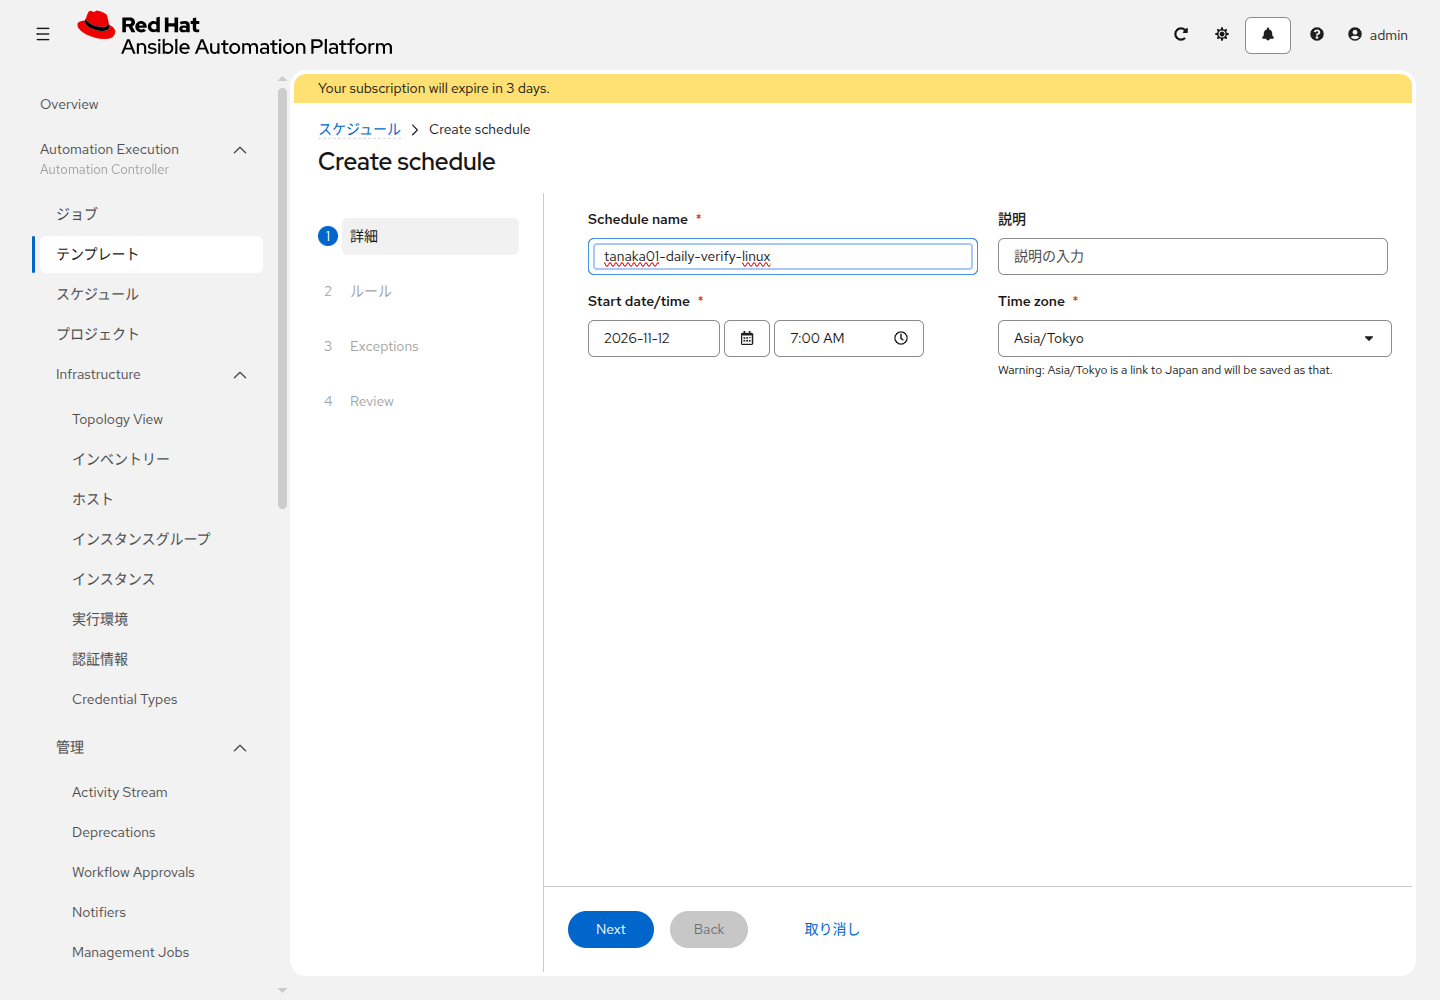
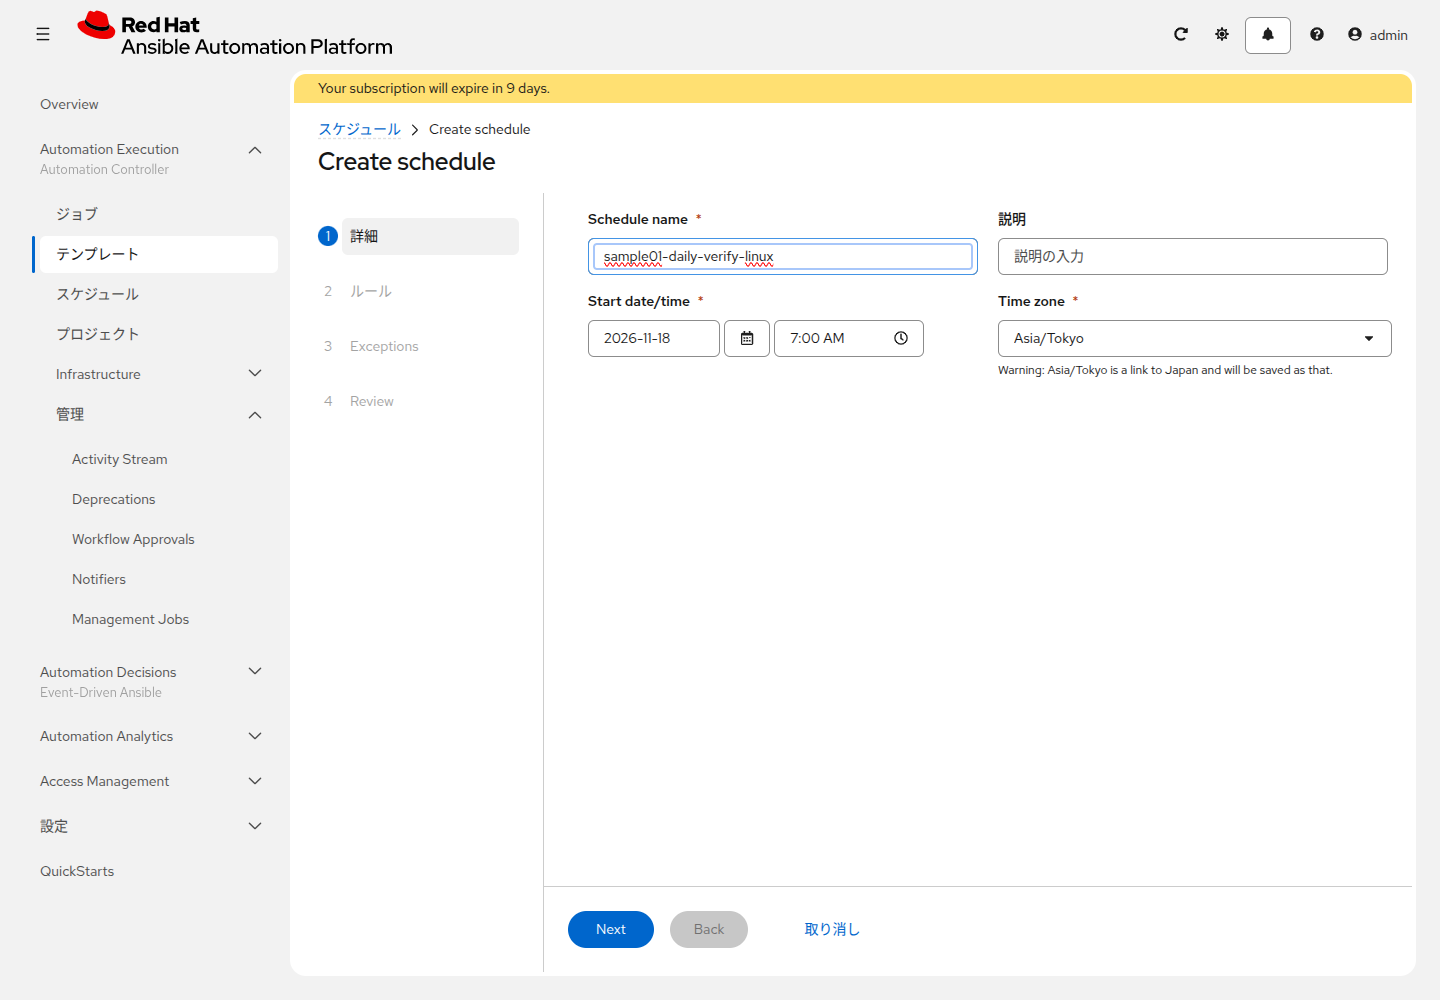
古いスクショを撮り直し、名前の接頭辞の例を sample01 にする。
- 手順が変わって画面と合わなくなった写真と、例の接頭辞 tanaka01 が写っていた写真を、AAP 2.7 / GitLab 19 で撮り直した
- 本文の接頭辞の例 tanaka01 を sample01 にそろえた
- 演習9の「写真には name_prefix の行が無い」という注記をやめ、代替テキストを写真に合わせた
- 応用演習1の team-access.png の代替テキストを、割り当て後の一覧という写真の内容に合わせた
- 演習7で、起動プロンプトが無いときは起動画面にジョブタイプの欄が出ないことを正しく書いた
- どこからも参照されていない job-template-details.png と survey.png を消した

Closes #91

diff --git a/advanced/ex3.md b/advanced/ex3.md
@@ -179,7 +179,7 @@ podman images | grep '<name_prefix>-custom-ee'
 
 ![実行環境の作成。イメージは localhost/ で始まる名前、Pull は Never pull container before running](../images/aap/ee-create-local.png)
 
-写真の `tanaka01` は例です。組織と Registry credential は空欄のまま **実行環境の作成** を押します。
+写真の `sample01` は例です。組織と Registry credential は空欄のまま **実行環境の作成** を押します。
 
 `localhost/` で始まるイメージ名は、レジストリではなく、そのサーバの `podman` にあるイメージを指します。Pull を `Never pull container before running` にすると、AAP はレジストリへ取りに行かず、手元のイメージをそのまま使います。
 
@@ -204,17 +204,17 @@ Web IDE で `use_ini_file.yml` をプロジェクトの直下に作り、[sample
 | Extra variables | 下の1行 |
 
 ```yaml
-name_prefix: tanaka01
+name_prefix: sample01
 ```
 
-`tanaka01` は、自分の接頭辞にします。この Playbook は `hosts: localhost` で、実行環境の中だけで動きます。サーバへログインしないので、認証情報は付けません。**テンプレートの起動** を押します。Survey も制限も出ません。
+`sample01` は、自分の接頭辞にします。この Playbook は `hosts: localhost` で、実行環境の中だけで動きます。サーバへログインしないので、認証情報は付けません。**テンプレートの起動** を押します。Survey も制限も出ません。
 
 1回目は失敗します。出力に `community.general.ini_file` があり、`couldn't resolve module` または `was not found` と出ていれば、既定の実行環境にこのコレクションが無いことを確認できています。
 
-失敗を確認したら、このテンプレートの **テンプレートの編集** で、実行環境に `<name_prefix>-custom-ee` を選んで保存します。もう一度起動します。成功すると、`Show the value written with community.general` に次の行が出ます。`tanaka01` の位置には、自分の接頭辞が出ます。
+失敗を確認したら、このテンプレートの **テンプレートの編集** で、実行環境に `<name_prefix>-custom-ee` を選んで保存します。もう一度起動します。成功すると、`Show the value written with community.general` に次の行が出ます。`sample01` の位置には、自分の接頭辞が出ます。
 
 ```
-tanaka01-use-ini.ini の source は custom ee です
+sample01-use-ini.ini の source は custom ee です
 ```
 
 ジョブ詳細の実行環境が `<name_prefix>-custom-ee` になっていることも確認します。ジョブが `image not known` で失敗したときは、Section 3 の `CONTAINERS_STORAGE_CONF` を設定して、ビルドからやり直します。

diff --git a/basic-intro/ex4.md b/basic-intro/ex4.md
@@ -100,12 +100,12 @@ git push
 | Extra variables | 下の YAML |
 
 ```yaml
-resource_prefix: tanaka01
+resource_prefix: sample01
 linux_login_password: <Linuxのパスワード>
 windows_login_password: <Windowsのパスワード>
 ```
 
-`tanaka01` は例です。演習1で決めた接頭辞と同じ文字列にします。`<Linuxのパスワード>` と `<Windowsのパスワード>` は、自分で決めた値に置き換えます。`<` と `>` は残しません。パスワードの条件は次のとおりです。条件に合わないと、最初のタスク `Required variables are set` で止まります。
+`sample01` は例です。演習1で決めた接頭辞と同じ文字列にします。`<Linuxのパスワード>` と `<Windowsのパスワード>` は、自分で決めた値に置き換えます。`<` と `>` は残しません。パスワードの条件は次のとおりです。条件に合わないと、最初のタスク `Required variables are set` で止まります。
 
 * 英数字だけで、8文字以上32文字以内
 * 英大文字、英小文字、数字を、それぞれ1文字以上含む（Windows は、この3種類が無いパスワードを設定できません）
@@ -117,17 +117,17 @@ windows_login_password: <Windowsのパスワード>
 **テンプレートの起動** をクリックします。成功すると、最後のタスクに次のような行が出ます。
 
 ```
-resource_prefix: tanaka01
-Linuxの名前: tanaka01-linux
+resource_prefix: sample01
+Linuxの名前: sample01-linux
 Linuxの接続先: 203.0.113.10
 Linuxのユーザー: ansible
-Windowsの名前: tanaka01-windows
+Windowsの名前: sample01-windows
 Windowsの接続先: 203.0.113.11
 Windowsのユーザー: Administrator
 パスワードは、このジョブの Extra variables に入れた値です。
 ```
 
-`tanaka01`、`203.0.113.10`、`203.0.113.11` は例です。ログに出た2つのアドレスと、ユーザー名を控えます。パスワードは、Extra variables に入れた2つの値です。ジョブの詳細を開くと、その値が Extra variables に残っています。
+`sample01`、`203.0.113.10`、`203.0.113.11` は例です。ログに出た2つのアドレスと、ユーザー名を控えます。パスワードは、Extra variables に入れた2つの値です。ジョブの詳細を開くと、その値が Extra variables に残っています。
 
 値を控えたら、`<name_prefix>-create-aws-servers` の **テンプレートの編集** を開き、Extra variables から `linux_login_password` と `windows_login_password` の2行を消して保存します。`resource_prefix` の行は残します。テンプレートを開ける他の人に、パスワードが見えないようにするためです。もう一度このジョブを起動するときは、2行を入れ直します。
 

diff --git a/basic-controller/ex8.md b/basic-controller/ex8.md
@@ -14,16 +14,16 @@
 
 演習7で保存した `name_prefix` の行は残します。この行が無いと、ファイルを書く前に失敗します。
 
-欄の中を、次の2行にします。`tanaka01` は、演習7で保存してある自分の接頭辞のままにします。
+欄の中を、次の2行にします。`sample01` は、演習7で保存してある自分の接頭辞のままにします。
 
 ```yaml
-name_prefix: tanaka01
+name_prefix: sample01
 training_note: hello from extra vars
 ```
 
 **ジョブテンプレートの保存** を押し、起動します。出力の `Write note.txt` が `changed` になり、`Show the note written to note.txt` に `note.txt の note は hello from extra vars です` と出ます。
 
-これは `ansible-playbook write_note_linux.yml -e "name_prefix=tanaka01 training_note='hello from extra vars'"` と同じです。`name_prefix` は、ファイルの置き場所に使われます。
+これは `ansible-playbook write_note_linux.yml -e "name_prefix=sample01 training_note='hello from extra vars'"` と同じです。`name_prefix` は、ファイルの置き場所に使われます。
 
 確認が終わったら、`training_note` の行だけを消して保存します。`name_prefix` の行は残します。Section 3 では、同じ `training_note` を Survey で聞きます。
 
@@ -34,7 +34,7 @@ training_note: hello from extra vars
 もう一度 **テンプレートの編集** を開きます。Extra variables は、次の1行のままです。
 
 ```yaml
-name_prefix: tanaka01
+name_prefix: sample01
 ```
 
 **制限** の右にある **起動プロンプト** にチェックを入れます。ジョブタイプの横の起動プロンプトは外したままです。
@@ -45,7 +45,7 @@ name_prefix: tanaka01
 
 ![Prompt on Launch の Review。制限は lin1。最後のボタンは Finish。手順は Prompts と Review だけ](../images/aap/launch-finish.png)
 
-写真の `tanaka01` は例です。自分の接頭辞に読み替えます。出力の対象が `lin1` だけであることを確認します。`Show the note written to note.txt` は `note.txt の note は managed by AAP です` のままです。この演習の認証情報は `<name_prefix>-linux-ssh` だけです。
+写真の `sample01` は例です。自分の接頭辞に読み替えます。出力の対象が `lin1` だけであることを確認します。`Show the note written to note.txt` は `note.txt の note は managed by AAP です` のままです。この演習の認証情報は `<name_prefix>-linux-ssh` だけです。
 
 ## Section 3: Survey
 

diff --git a/basic-controller/ex9.md b/basic-controller/ex9.md
@@ -95,17 +95,17 @@ git push
 `<name_prefix>-write-note-linux` の編集で、認証情報に `<name_prefix>-vault-training` を追加します。`<name_prefix>-linux-ssh` も付けたままにします。**Extra variables** は、演習8で残した `name_prefix` の行を残したまま、次の行を足します。起動画面にはこの欄は出ないので、編集画面で保存します。
 
 ```yaml
-name_prefix: tanaka01
+name_prefix: sample01
 training_use_vault: true
 ```
 
-`tanaka01` は、演習7で保存してある自分の接頭辞のままにします。
+`sample01` は、演習7で保存してある自分の接頭辞のままにします。
 
-![詳細画面。認証情報は linux-ssh と vault-training、Extra variables は training_use_vault: true。実行環境に既定の名前が見えても、編集画面では空欄のままにする](../images/aap/template-launch.png)
+![詳細画面。認証情報は linux-ssh と vault-training、Extra variables は name_prefix と training_use_vault: true の2行。実行環境に既定の名前が見えても、編集画面では空欄のままにする](../images/aap/template-launch.png)
 
-![編集画面の Extra variables](../images/aap/extra-variables.png)
+![編集画面の Extra variables。name_prefix と training_use_vault の2行。制限の起動プロンプトにはチェックが入ったまま](../images/aap/extra-variables.png)
 
-写真の Extra variables は `training_use_vault` だけです。自分の画面では、その上に `name_prefix` の行もあります。制限の起動プロンプトは、演習8で入れたままにします。
+制限の起動プロンプトは、演習8で入れたままにします。
 
 起動すると、演習8と同じ **Prompt on Launch** が開きます。**制限** は空欄のまま **Next** を押します。**Survey** は `managed by AAP` のまま **Next** を押し、**Review** で **Finish** を押します。メモの文面は変えません。`Show the note written to note.txt` は `note.txt の note は managed by AAP です` のままです。成功すると、`Show the secret written to secret.txt` に `secret.txt を書きました。権限は 0600 です` と出ます。ログに出るのは、ファイルを書いたことと権限です。復号した値は出ません。
 

diff --git a/cleanup.md b/cleanup.md
@@ -31,9 +31,9 @@ Web IDE で、プロジェクト `<name_prefix>-aap-training-content` に [sampl
 | 実行環境 | 空欄 | 空欄 |
 | 認証情報 | `<name_prefix>-linux-ssh` | `<name_prefix>-windows-psrp` |
 | 制限 | `linux` | `windows` |
-| Extra variables | `name_prefix: tanaka01` | `name_prefix: tanaka01` |
+| Extra variables | `name_prefix: sample01` | `name_prefix: sample01` |
 
-`tanaka01` は自分の接頭辞にします。認証情報が OS ごとに違うので、制限で片方のグループだけを対象にします。
+`sample01` は自分の接頭辞にします。認証情報が OS ごとに違うので、制限で片方のグループだけを対象にします。
 
 両方を起動します。Linux 用は `Remove /tmp/<name_prefix>-aap-training` が `changed`、Windows 用は `Remove C:\temp\<name_prefix>-aap-training` が `changed` になれば消えています。もう一方の OS の play は、対象ホストが無いので `skipping` です。2回目に起動すると、どちらも `ok` になります。
 
@@ -73,10 +73,10 @@ ansible_connection: local
 | Extra variables | 下の1行 |
 
 ```yaml
-name_prefix: tanaka01
+name_prefix: sample01
 ```
 
-`tanaka01` は自分の接頭辞にします。起動画面には Extra variables は出ないので、編集画面で保存してから **テンプレートの起動** を押します。
+`sample01` は自分の接頭辞にします。起動画面には Extra variables は出ないので、編集画面で保存してから **テンプレートの起動** を押します。
 
 成功すると、出力の最後に2つの一覧が出ます。`Show the names that were deleted` は削除できた名前、`Show the names that remain` は見つかったのに削除できなかった名前です。作っていない名前は、どちらにも出ません。このジョブは、実行中の自分自身が使っているプロジェクト、インベントリー `<name_prefix>-aap-runner`、テンプレート `<name_prefix>-remove-lab` を消せません。この3つは「残った名前」に出ます。残った名前は Section 4 で、画面から消します。ジョブが失敗した場合も、Section 4 の検索で残っている行を消します。
 

diff --git a/basic-controller/ex10.md b/basic-controller/ex10.md
@@ -24,7 +24,7 @@
 
 時刻の欄が 24 時間表示のときは、`07:00` と入れます。Time zone には、ブラウザのタイムゾーンが最初から入っています。`Asia/Tokyo` なら、そのまま使います。`Warning: Asia/Tokyo is a link to Japan and will be saved as that.` と出ても、そのまま **Next** を押します。`UTC` など別の値が出ているときは、Time zone を開いて `Asia/Tokyo` を選びます。`UTC` のままだと、日本時間の 16:00 に動きます。名前欄の下に赤線が出ても、そのまま **Next** を押します。
 
-![Create schedule の詳細。Schedule name、Start date/time、Time zone。tanaka01 は例](../images/aap/schedule-details.png)
+![Create schedule の詳細。Schedule name、Start date/time、Time zone。sample01 は例](../images/aap/schedule-details.png)
 
 **ルール** では、**Frequency** が最初 **Yearly** です。**Daily** に変えます。**Interval** は `1` のまま、他の Select は空のままにします。**Schedule ending type** は **なし** です。**Save rule** を押します。押さないと、**Next** で `Schedules must have at least one rule.` と出ます。**Save rule** のあと、`RRULE:FREQ=DAILY` と、翌日 7:00 からの時刻が出ます。それから **Next** を押します。
 

diff --git a/basic-controller/ex11.md b/basic-controller/ex11.md
@@ -86,7 +86,7 @@
 
 ![承認の確認画面。Yes, I confirm にチェックを入れ、Approve workflow approvals を押す](../images/aap/workflow-approve-confirm.png)
 
-写真の `tanaka01` は例です。ステータスに `Success` と出て画面が閉じると、2つの確認ジョブが走り、ワークフローが成功で終わります。拒否するときは **Deny** を押し、同じように確認の画面でチェックを入れてから進めます。拒否すると、確認ジョブは走りません。ステータスの **Never expires** は、タイムアウトを **0** と **0** にしたので期限が無いという意味です。
+写真の `sample01` は例です。ステータスに `Success` と出て画面が閉じると、2つの確認ジョブが走り、ワークフローが成功で終わります。拒否するときは **Deny** を押し、同じように確認の画面でチェックを入れてから進めます。拒否すると、確認ジョブは走りません。ステータスの **Never expires** は、タイムアウトを **0** と **0** にしたので期限が無いという意味です。
 
 ![承認の詳細。押すボタンは承認。拒否は Deny](../images/aap/workflow-approval.png)
 

diff --git a/advanced/ex2.md b/advanced/ex2.md
@@ -74,10 +74,10 @@ Port: 1025
 * AWS でサーバを作った: `<name_prefix>-show-mailpit` を起動します。出力の `Show the received messages` に、次のような行が出ます。
 
 ```
-件名: Job #545 'tanaka01-write-note-linux' failed: https://... / 宛先: tanaka01@verify.test
+件名: Job #545 'sample01-write-note-linux' failed: https://... / 宛先: sample01@verify.test
 ```
 
-`545` と `tanaka01` は例です。失敗したジョブの番号と、自分の接頭辞が出ます。`At least one message has arrived` で失敗したときは、まだメールが届いていません。
+`545` と `sample01` は例です。失敗したジョブの番号と、自分の接頭辞が出ます。`At least one message has arrived` で失敗したときは、まだメールが届いていません。
 
 メールが届かないときは、**Notifiers** の一覧で `<name_prefix>-note-mail` を開き、ホスト、ポート、差出人アドレスを見直します。`<name_prefix>-write-note-linux` の **通知** タブで、**失敗時** が付いているかも確認します。
 

diff --git a/advanced/ex5.md b/advanced/ex5.md
@@ -94,10 +94,10 @@ git push
 | Extra variables | 下の1行 |
 
 ```yaml
-name_prefix: tanaka01
+name_prefix: sample01
 ```
 
-`tanaka01` は演習1で決めた接頭辞にします。起動画面には Extra variables は出ないので、編集画面で保存してから起動します。
+`sample01` は演習1で決めた接頭辞にします。起動画面には Extra variables は出ないので、編集画面で保存してから起動します。
 
 認証情報は `<name_prefix>-aap-api` だけにします。`localhost` には SSH でログインしないので、Machine 認証情報は付けません。
 

diff --git a/advanced/ex1.md b/advanced/ex1.md
@@ -30,7 +30,7 @@
 
 `<name_prefix>-write-note-linux` の **Team Access** を開きます。
 
-![Team Access。Assign teams からチームとロールを選ぶ](../images/aap/team-access.png)
+![Team Access。割り当てが終わると、チームとロール JobTemplate Execute が一覧に出る。最初は空で、Assign teams から割り当てる](../images/aap/team-access.png)
 
 **Assign teams** をクリックし、`<name_prefix>-ops-team` にチェックを入れて **Next** を押します。
 
